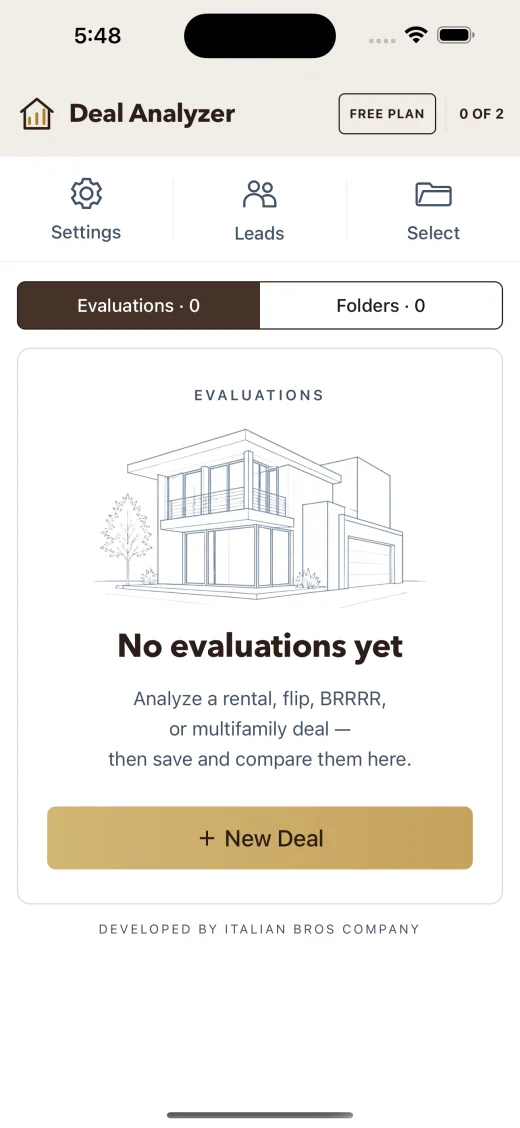
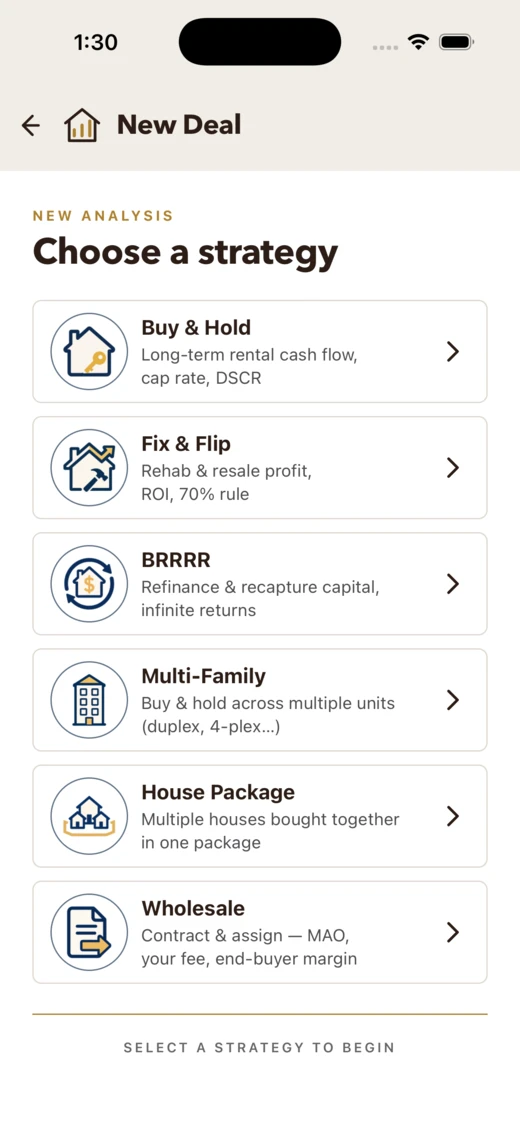
Refresh app screens without cropping

diff --git a/catalog.js b/catalog.js
@@ -76,7 +76,8 @@ window.APP_CATALOG = [
     description: "Use one, two, or four calculators at once without clearing your work between calculations.",
     icon: "/assets/icons/calcspace.webp",
     screenshot: "/assets/screenshots/calcspace.webp",
-    screenshotAlt: "CalcSpace showing two working calculators on an iPhone",
+    screenshotVersion: "20260824.1",
+    screenshotAlt: "CalcSpace calculator chooser with everyday, scientific, conversion, and planning tools",
     status: "available",
     statusLabel: "Available now",
     accent: "indigo",
@@ -106,7 +107,8 @@ window.APP_CATALOG = [
     description: "Five private real-estate calculators for payments, affordability, VA loans, refinancing, and rentals.",
     icon: "/assets/icons/mortgage-calculator.webp",
     screenshot: "/assets/screenshots/mortgage-calculator.webp",
-    screenshotAlt: "Mortgage Calculator Suite home screen with its real-estate estimate tools",
+    screenshotVersion: "20260824.1",
+    screenshotAlt: "Mortgage Calculator Suite home screen with estimate shortcuts and recent estimates",
     status: "available",
     statusLabel: "Available now",
     accent: "olive",
@@ -122,7 +124,8 @@ window.APP_CATALOG = [
     description: "Evaluate six real-estate strategies with consistent cash-flow, return, financing, and offer metrics.",
     icon: "/assets/icons/deal-analyzer.webp",
     screenshot: "/assets/screenshots/deal-analyzer.webp",
-    screenshotAlt: "Deal Analyzer Suite home screen ready to start a new property analysis",
+    screenshotVersion: "20260824.1",
+    screenshotAlt: "Deal Analyzer Suite new-deal screen with six real-estate strategies",
     status: "coming",
     statusLabel: "Coming soon",
     accent: "forest",
@@ -136,7 +139,8 @@ window.APP_CATALOG = [
     description: "Capture dreams in a private journal and explore them through thoughtful AI-guided reflection.",
     icon: "/assets/icons/dream-journal.webp",
     screenshot: "/assets/screenshots/dream-journal.webp",
-    screenshotAlt: "Dream Journal home screen with a clay moon illustration and journal action",
+    screenshotVersion: "20260824.1",
+    screenshotAlt: "Dream Journal home screen with the write-a-dream action and recent journal entries",
     status: "available",
     statusLabel: "Available now",
     accent: "lilac",

diff --git a/styles.css b/styles.css
@@ -452,7 +452,7 @@ button:focus-visible {
 .app-summary {
   position: relative;
   z-index: 2;
-  width: calc(100% - 164px);
+  width: calc(100% - 171px);
   min-width: 0;
   padding: clamp(24px, 2.15vw, 33px) 8px 63px 17px;
   display: grid;
@@ -568,7 +568,7 @@ button:focus-visible {
   z-index: 3;
   top: 14px;
   right: 9px;
-  width: 154px;
+  width: 162px;
   height: 334px;
   margin: 0;
   padding: 5px;
@@ -583,7 +583,7 @@ button:focus-visible {
   width: 100%;
   height: 100%;
   border-radius: 21px;
-  object-fit: cover;
+  object-fit: contain;
   object-position: top center;
 }
 
@@ -946,7 +946,7 @@ button:focus-visible {
   }
 
   .app-summary {
-    width: calc(100% - 144px);
+    width: calc(100% - 156px);
     padding: 25px 7px 64px 14px;
     grid-template-columns: clamp(62px, 18vw, 72px) minmax(0, 1fr);
     gap: 11px;
@@ -974,7 +974,7 @@ button:focus-visible {
   .phone-preview {
     top: 10px;
     right: 8px;
-    width: 136px;
+    width: 148px;
     height: 304px;
   }
 
@@ -1061,7 +1061,7 @@ button:focus-visible {
   }
 
   .app-summary {
-    width: calc(100% - 118px);
+    width: calc(100% - 144px);
     padding: 21px 6px 60px 11px;
     grid-template-columns: 56px minmax(0, 1fr);
     gap: 8px;
@@ -1090,7 +1090,7 @@ button:focus-visible {
   }
 
   .phone-preview {
-    width: 112px;
+    width: 136px;
     height: 278px;
   }
 

diff --git a/app.js b/app.js
@@ -56,6 +56,9 @@
     const isLandscape = app.id === "tin-wings" || app.id === "marbles";
     const screenshotWidth = isLandscape ? 900 : 520;
     const screenshotHeight = isLandscape ? 414 : 1128;
+    const screenshotSrc = app.screenshotVersion
+      ? `${app.screenshot}?v=${app.screenshotVersion}`
+      : app.screenshot;
 
     return `
       <article class="app-panel accent-${escapeHtml(app.accent)}${isLandscape ? " has-landscape-preview" : ""}">
@@ -72,7 +75,7 @@
         <figure class="phone-preview${isLandscape ? " phone-preview-landscape" : ""}">
           <img
             class="app-screenshot"
-            src="${escapeHtml(app.screenshot)}"
+            src="${escapeHtml(screenshotSrc)}"
             alt="${escapeHtml(app.screenshotAlt)}"
             ${imagePriority}
             width="${screenshotWidth}"

diff --git a/index.html b/index.html
@@ -17,7 +17,7 @@
     <meta property="og:url" content="https://italianbrosco.com/" />
     <title>Italian Bros — Independent product studio</title>
     <link rel="icon" href="/assets/favicon.svg" type="image/svg+xml" />
-    <link rel="stylesheet" href="/styles.css?v=20260823.1" />
+    <link rel="stylesheet" href="/styles.css?v=20260824.1" />
     <script type="application/ld+json">
       {
         "@context": "https://schema.org",
@@ -67,7 +67,7 @@
       <button class="dialog-done" type="button">Done</button>
     </dialog>
 
-    <script src="/catalog.js?v=20260823.1"></script>
-    <script src="/app.js?v=20260823.1"></script>
+    <script src="/catalog.js?v=20260824.1"></script>
+    <script src="/app.js?v=20260824.1"></script>
   </body>
 </html>

diff --git a/assets/screenshots/README.md b/assets/screenshots/README.md
@@ -2,20 +2,20 @@
 
 The public showcase uses real product screens only. Do not replace these files with CSS mockups, generated UI, concept art, or screenshots from a different app.
 
-Imported and verified on August 10, 2026:
+Imported and verified through August 24, 2026:
 
 | Showcase asset | Authentic source |
 | --- | --- |
 | `abc-smash.webp` | App Store Connect, Apple ID `6798801210`, en-US iPhone screenshot `app-store-child-1242x2688.png` |
-| `calcspace.webp` | App Store Connect, Apple ID `6789995674`, en-US iPhone screenshot `03-two.png` |
+| `calcspace.webp` | Current CalcSpace `iphone-6.9/01-chooser.png` source used by the public App Store 1.0.1 listing, refreshed August 24, 2026 |
 | `yawtzee-best-scorecard.webp` | Real Yawtzee: Best Scorecard native app captured at the App Store `1290×2796` iPhone 6.7-inch size, then resized for the showcase |
-| `deal-analyzer.webp` | App Store Connect, Apple ID `6790182110`, en-US iPhone screenshot `01-deal-analyzer-home-20260808.png` |
-| `dream-journal.webp` | App Store Connect, Apple ID `6798083909`, en-US iPhone screenshot `01-journal-history-current.png` |
+| `deal-analyzer.webp` | Current Deal Analyzer App Store preview source `premium-previews/source/01-home.png`, refreshed August 24, 2026 |
+| `dream-journal.webp` | Current Dream Journal App Store 1.0.2 preview source `premium-previews/source/01-summary.png`, refreshed August 24, 2026 |
 | `easy-audio-notes.webp` | App Store Connect, Apple ID `6798798592`, en-US iPhone screenshot `build2-record-iphone.png` |
 | `echobeat.webp` | App Store Connect, Apple ID `6799536277`, en-US iPhone screenshot `07-you.png` |
 | `eyes-up.webp` | App Store Connect, Apple ID `6799536126`, en-US iPhone screenshot `01-home.png` |
 | `hundred.webp` | App Store Connect, Apple ID `6799536266`, en-US iPhone screenshot `01-home.png` |
-| `mortgage-calculator.webp` | App Store Connect, Apple ID `6790174039`, en-US iPhone screenshot `01-iphone-home.png` |
+| `mortgage-calculator.webp` | Current Mortgage Calculator Suite App Store 1.1.3 preview source `premium-previews/source/01-iphone-home-expanded-clean.png`, refreshed August 24, 2026 |
 | `one-more-build-7.png` | Real One More build 7 Release app captured on the dedicated iPhone 16 Pro after a clean install, showing the truthful `0`, `0.1% BUST CHANCE`, `BEST 0`, verified `GLOBAL 35`, and disabled `BANK 0` state |
 | `pollwar.webp` | App Store Connect, Apple ID `6798080422`, en-US iPhone screenshot `pollwar-store-home-1242x2688.png` |
 | `real-or-ai.webp` | App Store Connect, Apple ID `6799536279`, en-US iPhone screenshot `03-answer-reveal.png` |
